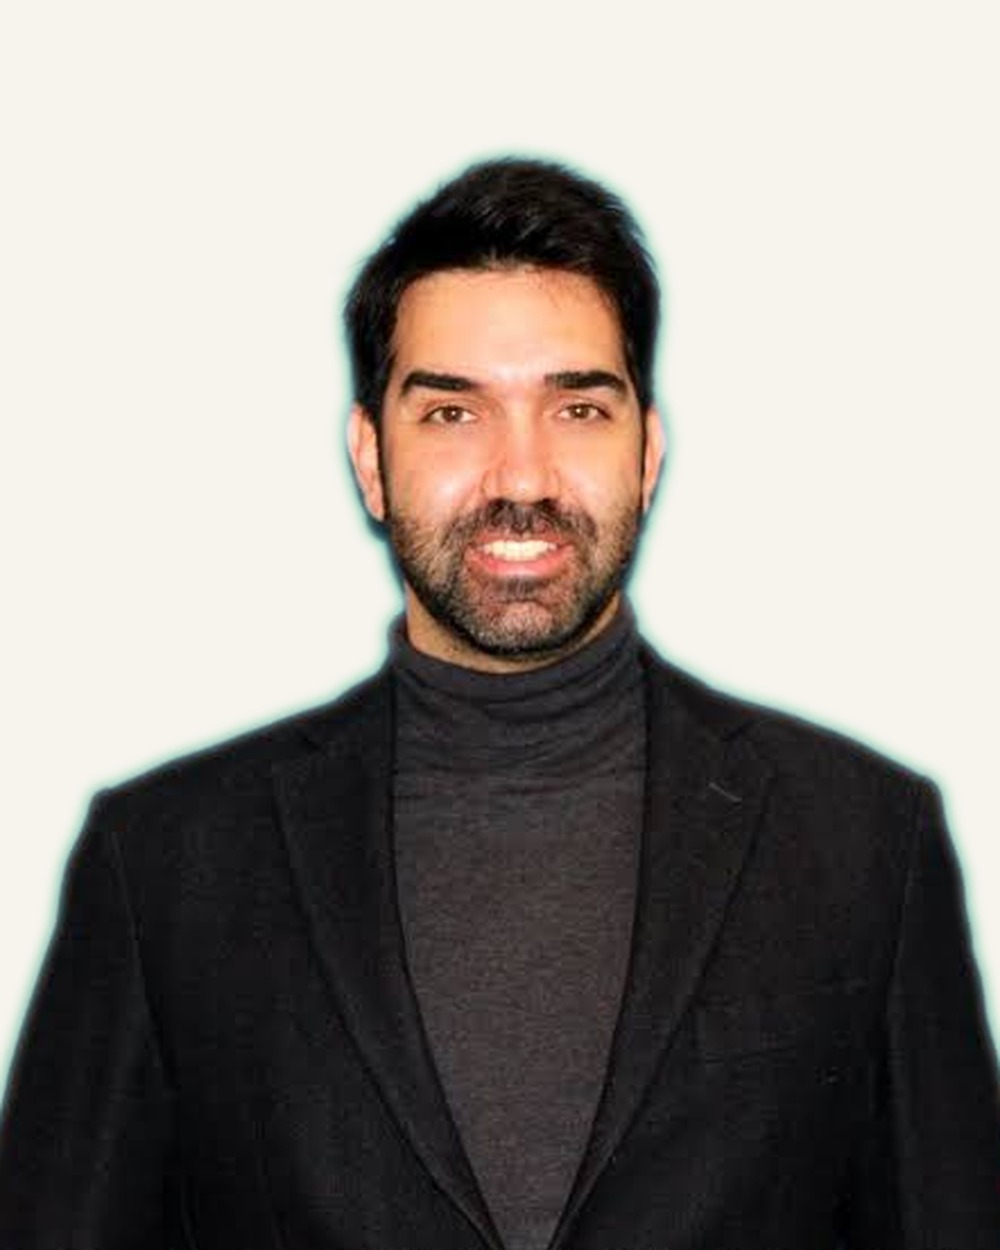
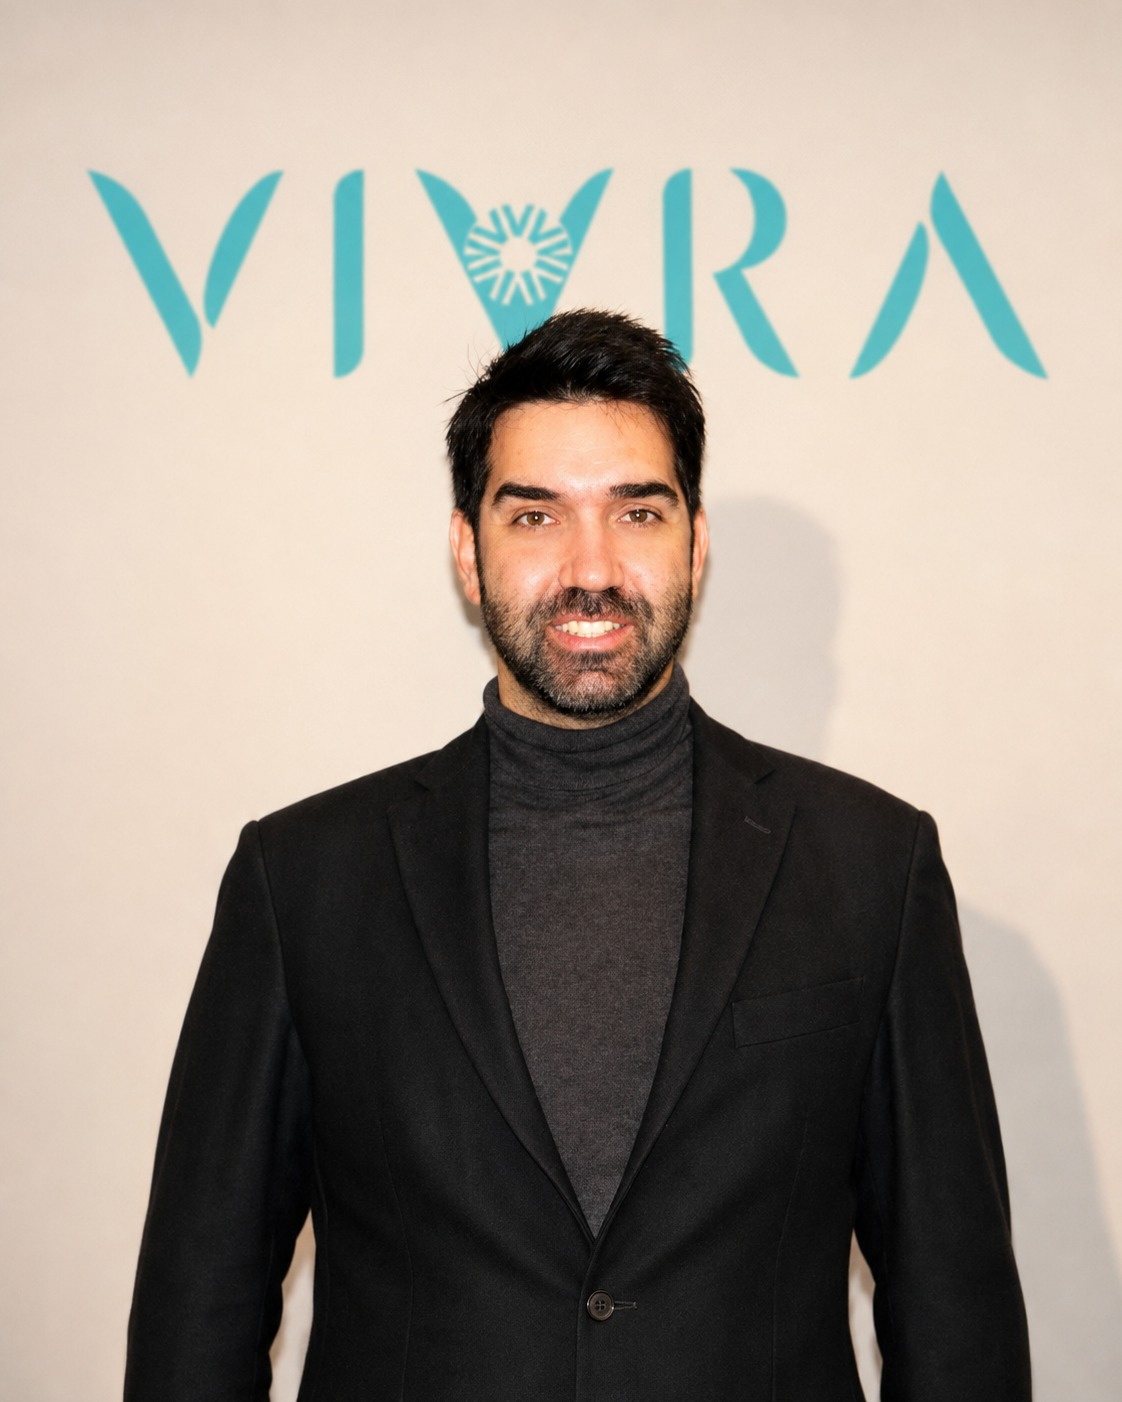
Replace Manuele's photo with the on-brand VIVRA-backdrop version; trim bio
- Swap the chroma-keyed blue-backdrop photo for the new one shot against
  the same VIVRA step-and-repeat as Francisco's — same 1122x1402 framing,
  same quality bar, in harmony with the rest of the People page.
- Remove the "financial independence at 36 / exits and failures /
  challenging VC models" sentence from his bio per request.

diff --git a/content/people.ts b/content/people.ts
@@ -72,7 +72,7 @@ export const PEOPLE: Person[] = [
     name: 'Manuele Monti',
     role: 'Co-Founder, VIVRA — CEO, Techbricks',
     bio:
-      'Manuele Monti is an engineer, entrepreneur and venture builder who transformed a career spanning scientific research, financial engineering and global energy markets into building technology-driven companies. After achieving financial independence at 36, he dedicated his experience to venture engineering, navigating both successful exits and failures while challenging traditional venture capital models. Today, he works with conscious entrepreneurs and impact-driven investors to advance innovation, wellbeing and a regenerative economy for future generations.',
+      'Manuele Monti is an engineer, entrepreneur and venture builder who transformed a career spanning scientific research, financial engineering and global energy markets into building technology-driven companies. Today, he works with conscious entrepreneurs and impact-driven investors to advance innovation, wellbeing and a regenerative economy for future generations.',
     quote:
       'Building deep tech ventures for systemic change through regenerative capital.',
     category: 'founder',
